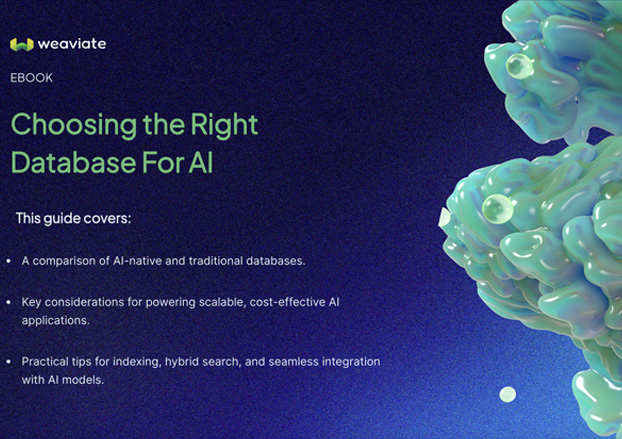
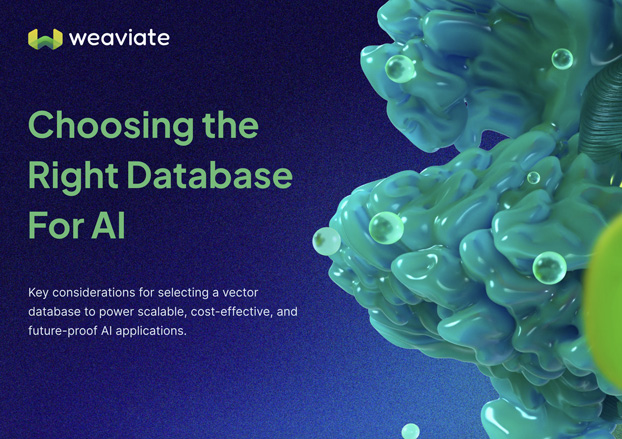
Update

diff --git a/src/components/Signup/Ebooks/v2.jsx b/src/components/Signup/Ebooks/v2.jsx
@@ -56,10 +56,12 @@ export default function Introduction() {
         <div>
           <h3>About the guide</h3>
           <p>
-            Choosing the right database is crucial to the success of your AI
-            projects. This guide will help you understand the key differences
-            between AI-native and traditional databases, and provide practical
-            tips for powering scalable, cost-effective AI applications
+            Deciding which vector storage technology to use requires
+            understanding more about how LLMs and similar algorithms work as
+            well as what the different capabilities are of vector storage
+            technologies. This guide hopes to walk you through this decision as
+            well as inform you enough to choose the best technology for your
+            application.
           </p>
           <br></br>
           <ul>
